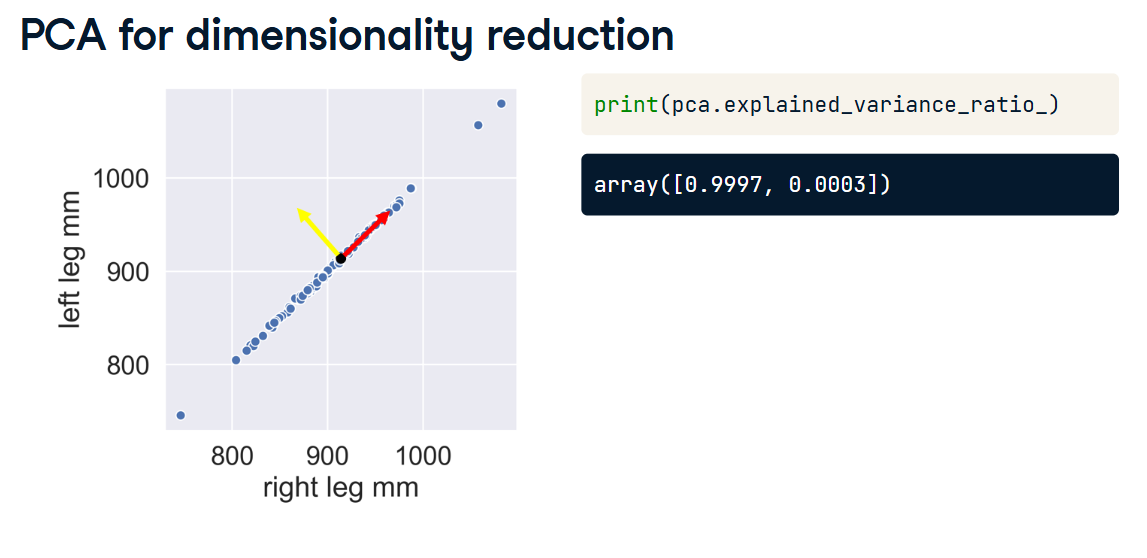
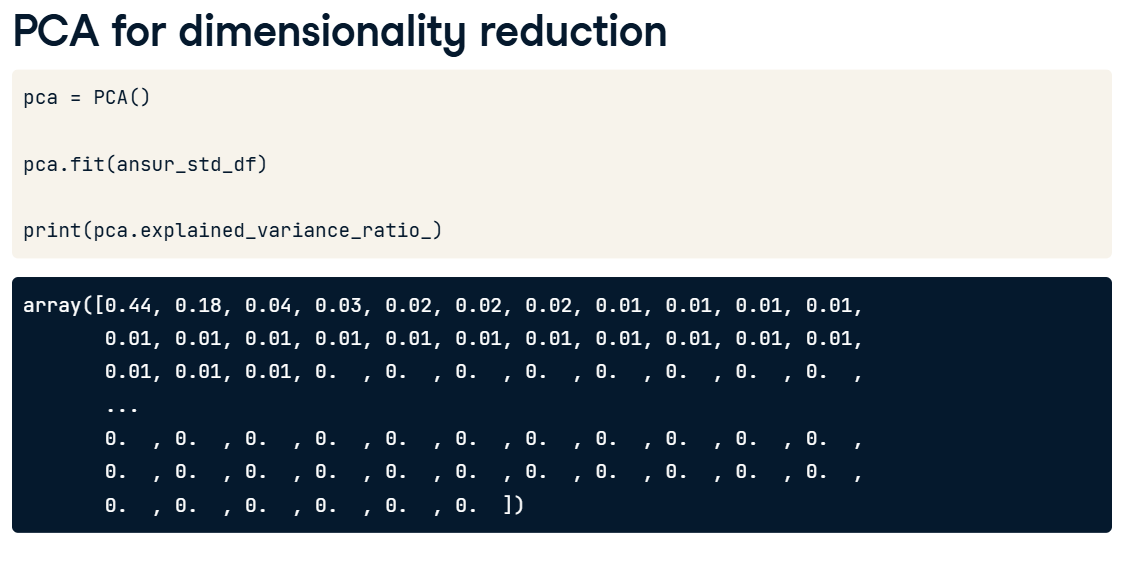
Fix cumulative sum image and remove extra images

diff --git a/7. Dimensionality Reduction in Python/Feature Extraction/5. Principal Component Analysis (PCA).md b/7. Dimensionality Reduction in Python/Feature Extraction/5. Principal Component Analysis (PCA).md
@@ -93,7 +93,3 @@ X_compressed = pca_final.fit_transform(X_scaled)
 
 # X_compressed is now your brand new, dimensionally-reduced dataset!
 ```
-
-*(Additional Reference Images)*
-![Image 5](images/image5.png)
-![Image 6](images/image6.png)
